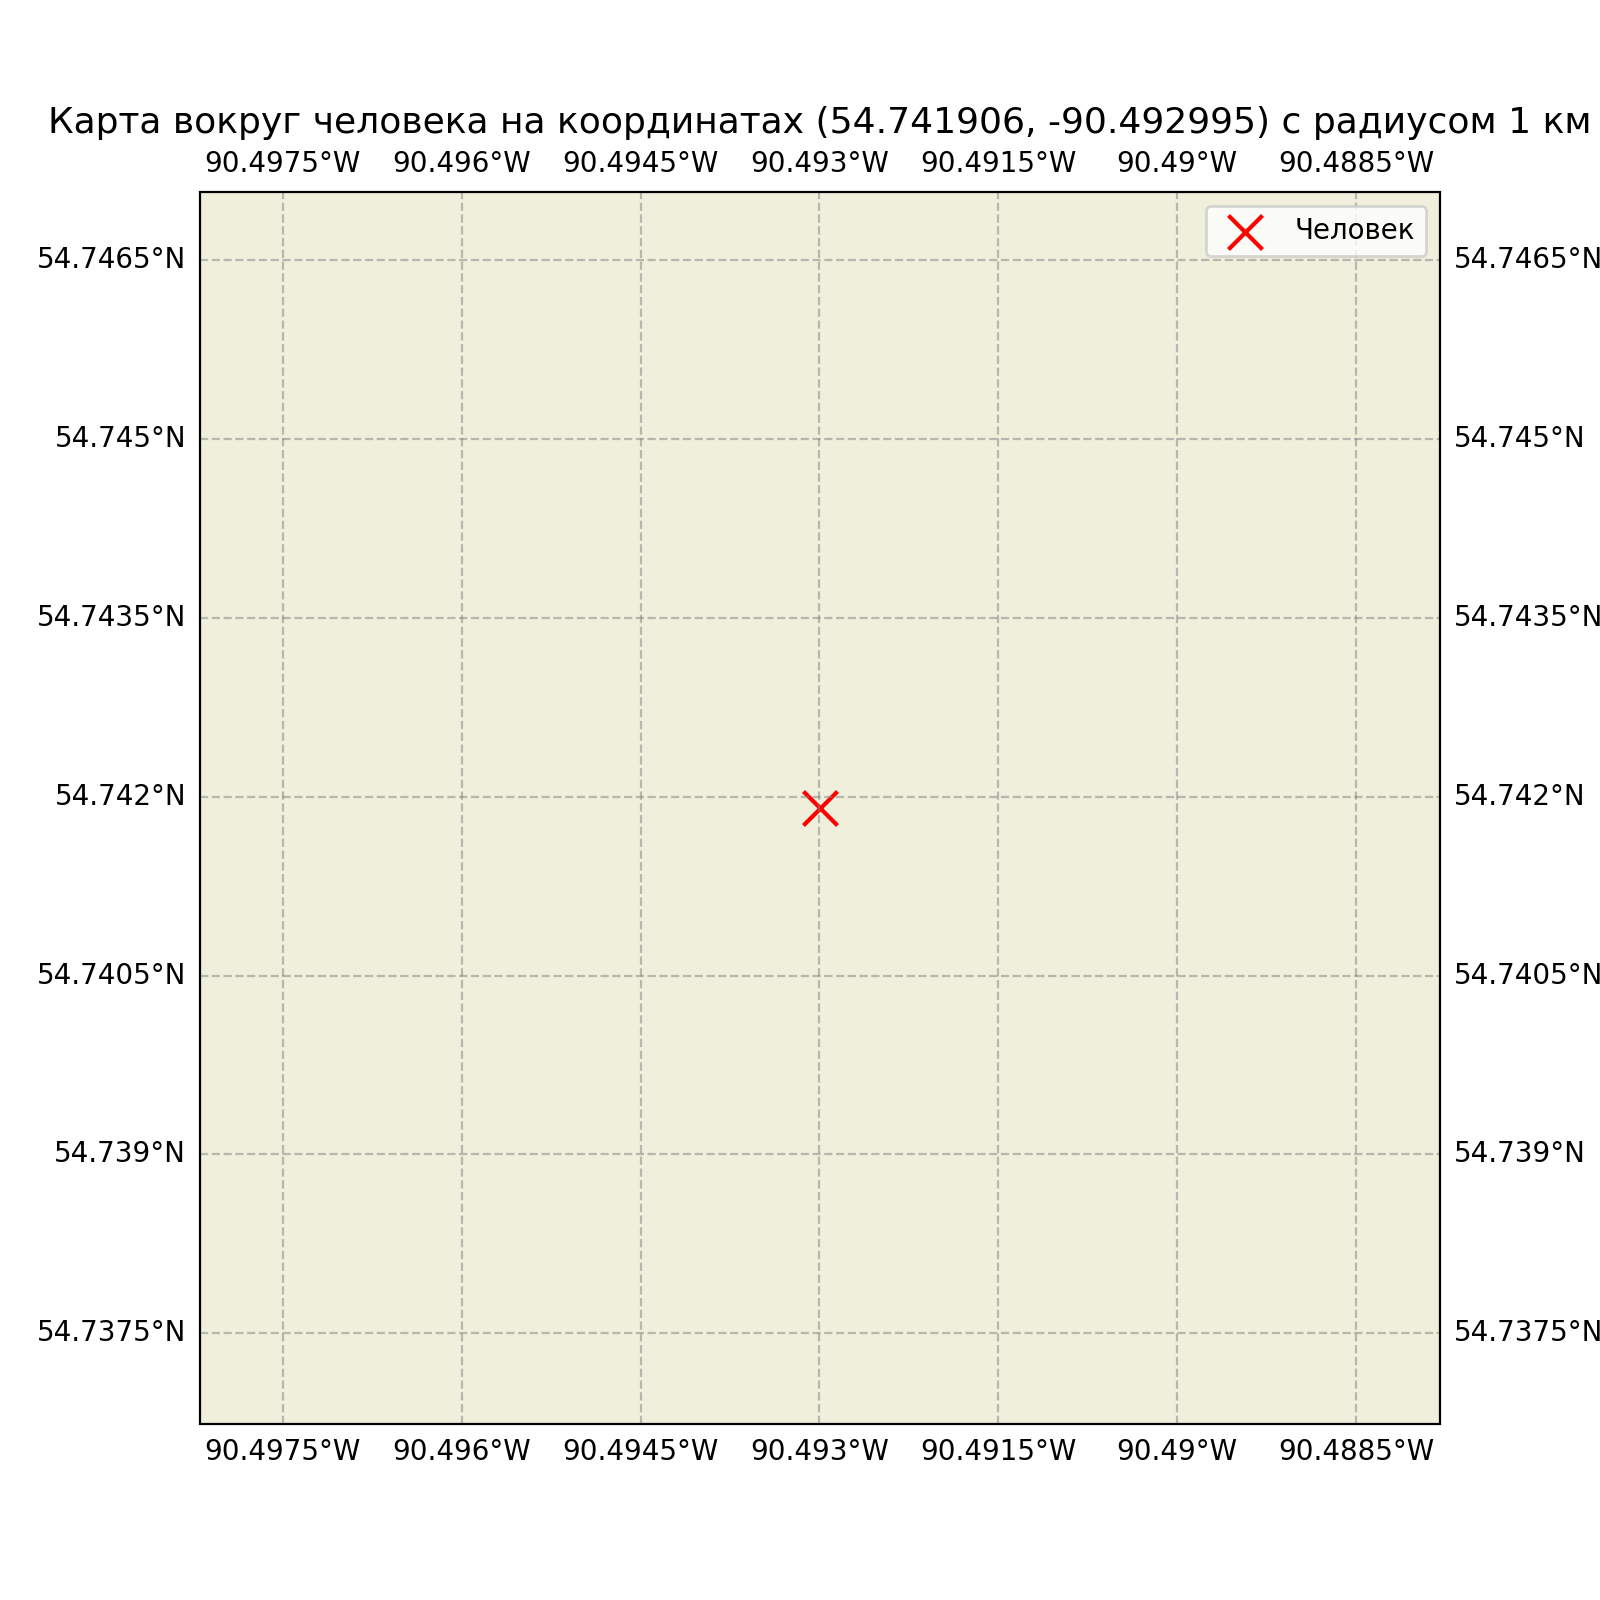
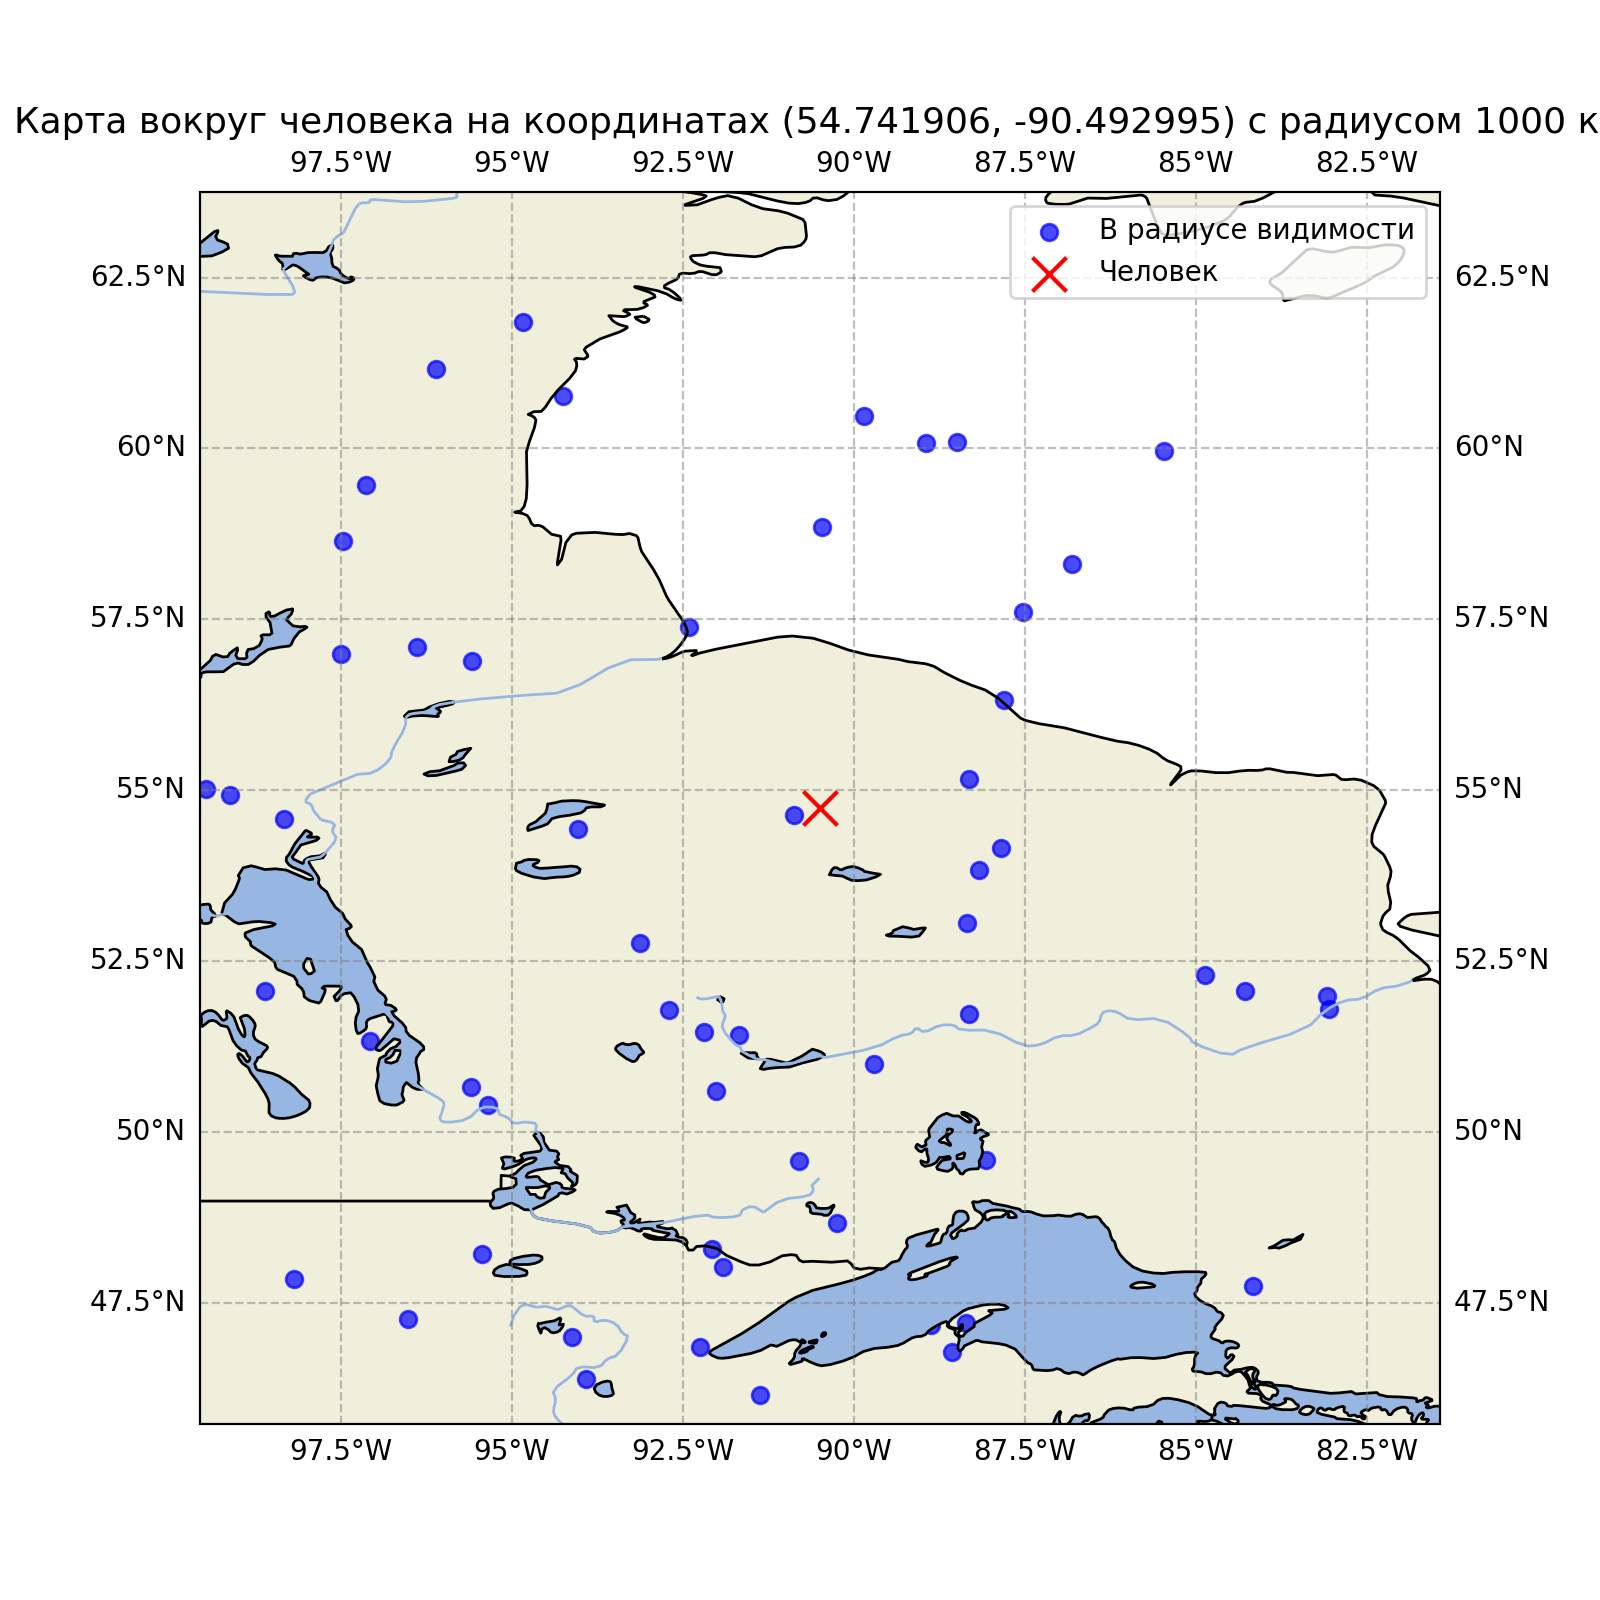
изменил map_of_trashes и поменял пути в мейнах для того чтобы работало все

diff --git a/handler/map_of_trash.py b/handler/map_of_trash.py
@@ -1,11 +1,11 @@
 #imports
 import numpy as np
-import json
 import math
 import matplotlib.pyplot as plt
 import cartopy.crs as ccrs
 import cartopy.feature as cfeature
 from geopy.distance import geodesic
+import h5py
 
 def project_orbit_to_earth(x, y, z, R=6371):
     """
@@ -29,39 +29,29 @@ def project_orbit_to_earth(x, y, z, R=6371):
 
 
 class Map:
-    def __init__(self, data):
-        self.FloatType = np.float64
-        self.IntType = np.int32
-        self.pos_sattelite = []
-        self.pos_trash = []
-        with open(data, 'r') as file:
-            self.data = json.load(file)
+    def __init__(self):
+        self.satellites_start = []
+        self.debris_start = []
+        self.satellites_end = []
+        self.debris_end = []
 
-    def get_info(self):
-        #satellites parametrs
-        n_sat = len(self.data['satellites'])
-        sat_names = np.array([self.data['satellites'][i]['name'] for i in range(n_sat)])
-        self.pos_sattelite = np.zeros([n_sat, 3], dtype=self.FloatType)
+    def get_info_start(self, data):
+        with h5py.File(data, 'r') as file:
+            self.satellites_start = list(file['PartType1']['Coordinates'])
+            self.debris_start = list(file['PartType2']['Coordinates'])
         
-        #trash parametrs
-        n_tr = len(self.data['trash'])
-        self.pos_trash = np.zeros([n_tr, 3], dtype=self.FloatType) 
+    def get_info_end(self, data):
+        with h5py.File(data, 'r') as file:
+            self.satellites_end = list(file['PartType1']['Coordinates'])
+            self.debris_end = list(file['PartType2']['Coordinates'])
 
-        #filling pos of satellites and trash
-        for i in range(n_sat):
-            for j in range(3):
-                self.pos_sattelite[i][j] = self.FloatType(self.data['satellites'][i]['coords'][j])
-        
-        for i in range(n_tr):
-            for j in range(3):
-                self.pos_trash[i][j] = self.FloatType(self.data['trash'][i]['coords'][j])
 
         # НАЧАЛО ДЛЯ 2D
     def get_map(self, person_location, radius_km):
         if radius_km < 1:
             radius_km = 1 # Защита от бед
             
-        pos_sattelite = list(self.pos_sattelite) + list(self.pos_trash) #спутники и мусор
+        pos_sattelite = list(self.satellites_start) + list(self.debris_start) #спутники и мусор
         points = [project_orbit_to_earth(x, y, z,) for x, y, z in pos_sattelite] 
 
                 # Фильтрация точек в радиусе
@@ -133,3 +123,83 @@ class Map:
         #plt.axis('equal')  # Делаем оси равными, чтобы картинка была квадратной
         plt.savefig('result')
 
+    def get_tracer(self,person_location,radius_km):
+        if radius_km < 1:
+            radius_km = 1 # Защита от бед
+        # Списки спутников и мусора (начала и конца)
+        #points = [project_orbit_to_earth(x, y, z,) for x, y, z in pos_sattelite] 
+        satellites_start = [project_orbit_to_earth(x, y, z,) for x, y, z in self.satellites_start] # Начальные координаты спутников
+        satellites_end = [project_orbit_to_earth(x, y, z,) for x, y, z in self.satellites_end]     # Конечные координаты спутников
+        debris_start = [project_orbit_to_earth(x, y, z,) for x, y, z in self.debris_start]         # Начальные координаты мусора
+        debris_end = [project_orbit_to_earth(x, y, z,) for x, y, z in self.debris_end]             # Конечные координаты мусора
+
+                # Вычисляем ширину и долготу эквивалентную радиусу
+        lat_per_km = 1 / 111.0  # 1 градус широты в км
+        long_per_km = lat_per_km * np.cos(np.radians(person_location[0]))  # 1 градус долготы в км
+
+        # Расчёт buffer в градусах
+        buffer_lat = radius_km * lat_per_km
+        buffer_long = radius_km * long_per_km
+
+        if radius_km > 20000:  # Настройка предела, например, 20000 км
+                # Установка границ карты
+                extent = [-180, 180, -90, 90]
+        else:
+            extent = [
+                person_location[1] - buffer_long,
+                person_location[1] + buffer_long,
+                person_location[0] - buffer_lat,
+                person_location[0] + buffer_lat
+            ]
+
+        # Создаем карту
+        fig = plt.figure(figsize=(10, 10), dpi=200)  
+        ax = plt.axes(projection=ccrs.PlateCarree())
+
+        # Устанавливаем границы карты
+        ax.set_extent(extent, crs=ccrs.PlateCarree())
+
+        # Добавляем основной фон карты
+        ax.add_feature(cfeature.BORDERS)
+        ax.add_feature(cfeature.COASTLINE)
+        ax.add_feature(cfeature.LAND)
+        ax.add_feature(cfeature.LAKES, edgecolor='black')
+        ax.add_feature(cfeature.RIVERS)
+
+       # Функция для отрисовки линий
+        def plot_lines(start_coords, end_coords, color, label):
+            for start, end in zip(start_coords, end_coords):
+                start_lat, start_lon = start
+                end_lat, end_lon = end
+                # Рисуем линии между начальными и конечными координатами
+                ax.plot([start_lon, end_lon], [start_lat, end_lat], color=color, linewidth=2, label=label)
+                # Отображаем начальную и конечную точки
+                ax.scatter(start_lon, start_lat, color=color, marker='o', s=100, transform=ccrs.PlateCarree(), label=None)
+                ax.scatter(end_lon, end_lat, color=color, marker='s', s=100, transform=ccrs.PlateCarree(), label=None)
+
+         # Отображаем местоположение человека
+        ax.scatter(person_location[1], person_location[0], color='red', marker='x', s=150, label='Человек', transform=ccrs.PlateCarree())
+
+        # Отображаем линии для спутников
+        plot_lines(satellites_start, satellites_end, 'blue', 'Спутники')
+
+        # Отображаем линии для мусора
+        plot_lines(debris_start, debris_end, 'red', 'Мусор')
+
+        # Добавляем сетку (широта и долгота)
+        gridlines = ax.gridlines(draw_labels=True, linestyle='--', color='gray', alpha=0.5)
+        gridlines.xlabels_top = False
+        gridlines.ylabels_right = False
+
+        # Заголовок и легенда
+        ax.set_title(f'Карта вокруг человека на координатах {person_location} с радиусом {radius_km} км', fontsize=13)
+        plt.legend(loc='upper right')
+        # Добавляем легенду
+        handles, labels = ax.get_legend_handles_labels()
+        by_label = dict(zip(labels, handles))
+        ax.legend(by_label.values(), by_label.keys())
+        # Устанавливаем аспект (чтобы карта была квадратной)
+        ax.set_aspect('equal', adjustable='datalim')
+
+        # Показать карту
+        plt.savefig('more_lists')

diff --git a/__main__.py b/__main__.py
@@ -6,10 +6,10 @@ import handler.main as graph_handler
 
 def main(config_path, output_path):
     # frontend.run_validator(config_path)
-    astro_data_path = debris_data.run(config_path)
+    #astro_data_path = debris_data.run(config_path)
     # astro_data_path = './astro_data/data.json'
-    solver.run('astro_data/data_output/data.json', output_path)
-    # graph_handler.run('astro_data/data_output/data.json', output_path)
+    #solver.run('astro_data/data_output/data.json', output_path)
+    graph_handler.run('/workspaces/Trash_project/test/IC.hdf5', output_path)
 
 
 if __name__ == "__main__":

diff --git a/handler/main.py b/handler/main.py
@@ -2,9 +2,11 @@ from . import map_of_trash
 
 
 def run(data, output_path):
-    map_creating = map_of_trash.Map('./' + data)
-    map_creating.get_info()
-    map_creating.get_map((54.741906, -90.492995), 1)
+    map_creating = map_of_trash.Map()
+    map_creating.get_info_start(data)
+    map_creating.get_info_end(data)
+    map_creating.get_tracer((54.741906, -90.492995), 1000)
+    #map_creating.get_map((54.741906, -90.492995), 1000)
 
 
 if __name__ == '__main__':
